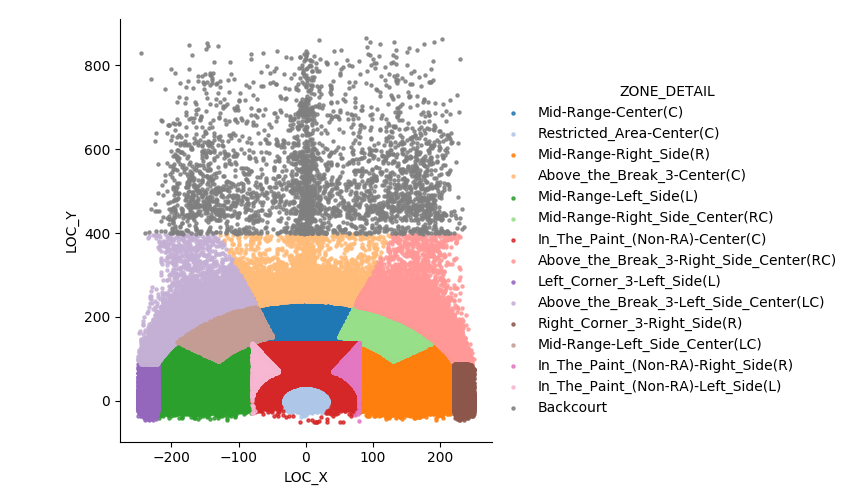
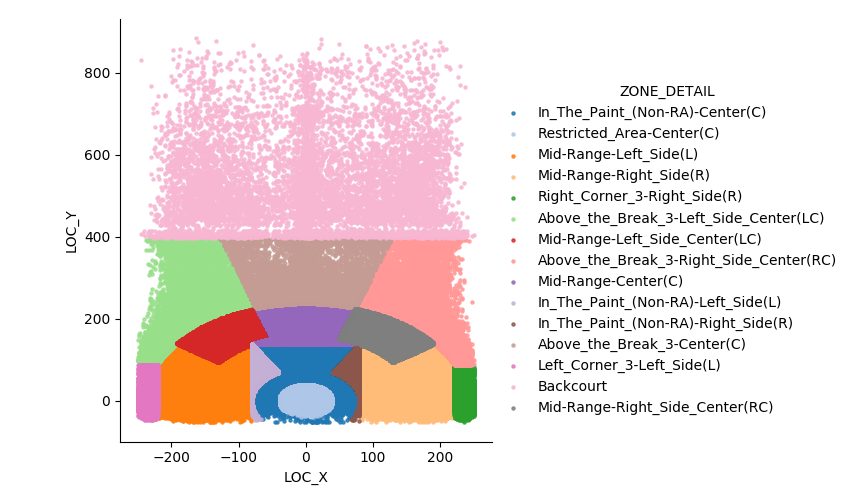
Altered code to accomodate additional data going back to 2000 - 01 season

diff --git a/t_SNBAE/GrabTeamData.py b/t_SNBAE/GrabTeamData.py
@@ -6,18 +6,23 @@
 # import the packages we will need #
 # Data Handling
 import pandas as pd
+import Path
 
 # nba scraper
 from nba_api.stats.static import teams
 from nba_api.stats.endpoints import shotchartdetail
 import time
 
+# Get the path
+path = Path.get_path()
+
 # Get the NBA teams
 Teams = teams.get_teams()
 TeamIDs = [team['id'] for team in Teams]
+print([team['full_name'] for team in Teams])
 
-# We'll pull data on the last five seasons
-Seasons = [str(year) + "-" + str(year + 1)[2:4] for year in range(2013,2019,1)]
+# We'll pull data on since 2000
+Seasons = [str(year) + "-" + str(year + 1)[2:4] for year in range(2000,2019,1)]
 
 # Data we'll want
 Columns = ['TEAM_ID','TEAM_NAME','GAME_ID','GAME_DATE','PLAYER_ID','PLAYER_NAME',
@@ -40,25 +45,30 @@ for Season in Seasons:
                             player_id = 0,
                             season_nullable = Season,
                             context_measure_simple = 'FGA')
-            NBAShots_DF = [df for df in NBAShots.get_data_frames() if df['GRID_TYPE'][0] == 'Shot Chart Detail'][0][Columns].copy()
-            NBAShots_DF['Season'] = Season
-            del NBAShots
+            if len(NBAShots.get_data_frames()[0]) != 0:
+                NBAShots_DF = [df for df in NBAShots.get_data_frames() if df['GRID_TYPE'][0] == 'Shot Chart Detail'][0][Columns].copy()
+                NBAShots_DF['Season'] = Season
+                del NBAShots
+            else:
+                First = True
         else:
             Temp = shotchartdetail.ShotChartDetail(team_id = ID,
                             player_id = 0,
                             season_nullable = Season,
                             context_measure_simple = 'FGA')
-            Temp_DF = [df for df in Temp.get_data_frames() if df['GRID_TYPE'][0] == 'Shot Chart Detail'][0][Columns].copy()
-            Temp_DF['Season'] = Season
-            NBAShots_DF = pd.concat([NBAShots_DF,Temp_DF])
-            del Temp_DF
-            del Temp
+            if len(Temp.get_data_frames()[0]) != 0:
+                Temp_DF = [df for df in Temp.get_data_frames() if df['GRID_TYPE'][0] == 'Shot Chart Detail'][0][Columns].copy()
+                Temp_DF['Season'] = Season
+                NBAShots_DF = pd.concat([NBAShots_DF,Temp_DF])
+                del Temp_DF
+                del Temp
 
         # To help us keep track of progress, the rest is to make sure we
         # aren't scraping too quickly
         print("Resting 5 seconds.")
-        time.sleep(5)
+        #time.sleep(5)
     print("Finished for " + str(Season) + " season.")
 
 # Write the data to file
-NBAShots_DF.to_csv(path + "NBAShots_2013_2019.csv", index = False)
+# Note this is a largish csv file
+NBAShots_DF.to_csv(path + "NBAShots_2000_2019.csv", index = False)

diff --git a/t_SNBAE/OrganizePlayerData.py b/t_SNBAE/OrganizePlayerData.py
@@ -7,34 +7,17 @@ path = Path.get_path()
 shots = pd.read_csv(path + "NBAShots_2013_2019.csv")
 
 # Add a ZONE_DETAIL variable
-shots['ZONE_DETAIL'] = shots[['SHOT_ZONE_BASIC','SHOT_ZONE_AREA']].apply(lambda x: ','.join(x), axis = 1)
+shots['ZONE_DETAIL'] = shots[['SHOT_ZONE_BASIC','SHOT_ZONE_AREA']].apply(lambda x: '-'.join(x).replace(" ", "_"), axis = 1)
 # Combine both Backcourt zones into one
-shots.loc[shots.ZONE_DETAIL == 'Backcourt,Back Court(BC)','ZONE_DETAIL'] = 'Backcourt'
-shots.loc[shots.ZONE_DETAIL == 'Above the Break 3,Back Court(BC)','ZONE_DETAIL'] = 'Backcourt'
+shots.loc[shots.ZONE_DETAIL == 'Backcourt-Back_Court(BC)','ZONE_DETAIL'] = 'Backcourt'
+shots.loc[shots.ZONE_DETAIL == 'Above_the_Break_3-Back_Court(BC)','ZONE_DETAIL'] = 'Backcourt'
 shots = shots[['PLAYER_NAME','Season','ZONE_DETAIL','SHOT_MADE_FLAG']]
 
 # Make Dummies
 dummies = pd.get_dummies(shots['ZONE_DETAIL'])
 
-# # Helps us know which zone is coded as ZONE_i, i = 0,...,15
-zone_key = {}
 
-# Helps with aesthetic so that zones are arranged in numerical order
-def sort_key(x):
-    if len(x) == 6:
-        return int(x[5])
-    else:
-        return int(x[5:])
-
-# Renaming the dummies with the numerical qualifiers we've created
-i = 0
-for col in dummies.columns:
-    zone_key[col] = 'ZONE_' + str(i)
-    i = i + 1
-
-dummies = dummies.rename(columns = zone_key)
 columns = list(dummies.columns)
-columns.sort(key = sort_key)
 
 # Add the dummies to shots df
 for col in columns:
@@ -80,12 +63,12 @@ for season in seasons:
         player_shots_by_zone[col + '_MADE'] = season_shots.loc[season_shots[col] == 1,].groupby(['PLAYER_NAME']).sum()['SHOT_MADE_FLAG']
 
         # Percent of shots taken that where in that zone
-        player_shots_by_zone[col + '_PERC_OF_TOTAL_SHOTS'] = player_shots_by_zone[col + '_ATT']/player_shots_by_zone['TOTAL_SHOTS']
+        player_shots_by_zone[col + '_PERC_TOT'] = player_shots_by_zone[col + '_ATT']/player_shots_by_zone['TOTAL_SHOTS']
         # Percent of shots made in that zones
         player_shots_by_zone[col + '_PERC_MADE'] = player_shots_by_zone[col + '_MADE']/player_shots_by_zone[col + '_ATT']
 
         # What columns do we want
-        columns_wanted.extend([col + '_PERC_OF_TOTAL_SHOTS', col + '_PERC_MADE'])
+        columns_wanted.extend([col + '_PERC_TOT', col + '_PERC_MADE'])
 
     player_shots_by_zone = player_shots_by_zone[columns_wanted]
     player_shots_by_zone.to_csv(path + "player_shots_by_zone_" + season + ".csv")

diff --git a/t_SNBAE/OrganizeTeamData.py b/t_SNBAE/OrganizeTeamData.py
@@ -3,10 +3,11 @@ import matplotlib.pyplot as plt
 import seaborn as sns
 import Path
 
+# Get the path where I'm storing data
 path = Path.get_path()
 
 # Load in the data we pulled with GrabTeamData.py
-TeamShots = pd.read_csv(path + "NBAShots_2013_2019.csv")
+TeamShots = pd.read_csv(path + "NBAShots_2000_2019.csv")
 
 # Add a new variable that combines the two shot zone variables into one
 TeamShots['ZONE_DETAIL'] = TeamShots[['SHOT_ZONE_BASIC','SHOT_ZONE_AREA']].apply(lambda x: '-'.join(x).replace(" ", "_"), axis = 1)
@@ -31,7 +32,7 @@ plt.savefig("ZONE_DETAIL_Court_Location.png")
 plt.close()
 
 # Isolate just the team, season, ZONE_DETAIL, and make/miss
-Shot_by_Zone = TeamShots[['TEAM_NAME','Season','ZONE_DETAIL','SHOT_MADE_FLAG']].copy()
+Shot_by_Zone = TeamShots[['TEAM_NAME','TEAM_ID','Season','ZONE_DETAIL','SHOT_MADE_FLAG']].copy()
 
 # Create Dummy Variables
 Dummies = pd.get_dummies(Shot_by_Zone['ZONE_DETAIL'])
@@ -47,17 +48,18 @@ for col in Columns:
 
 del Dummies
 
+# Initialize a list we'll use later
 Columns_Wanted = []
 
 # How many total shots were taken by each team in each season
-SHOTS_BY_ZONE = Shot_by_Zone.groupby(['TEAM_NAME','Season']).size().to_frame('TOTAL_SHOTS')
+SHOTS_BY_ZONE = Shot_by_Zone.groupby(['TEAM_ID','TEAM_NAME','Season']).size().to_frame('TOTAL_SHOTS')
 
 # For each of the zones
 for col in Columns:
     # How many shots were attempted in that zone for each team in each season
-    SHOTS_BY_ZONE[col + '_ATT'] = Shot_by_Zone.groupby(['TEAM_NAME','Season']).sum()[col]
+    SHOTS_BY_ZONE[col + '_ATT'] = Shot_by_Zone.groupby(['TEAM_ID','TEAM_NAME','Season']).sum()[col]
     # How many shots were made in that zone for each team in each season
-    SHOTS_BY_ZONE[col + '_MADE'] = Shot_by_Zone.loc[Shot_by_Zone[col] == 1,].groupby(['TEAM_NAME','Season']).sum()['SHOT_MADE_FLAG']
+    SHOTS_BY_ZONE[col + '_MADE'] = Shot_by_Zone.loc[Shot_by_Zone[col] == 1,].groupby(['TEAM_ID','TEAM_NAME','Season']).sum()['SHOT_MADE_FLAG']
 
     # Now calculate what percentage of a teams shots were in that zone
     SHOTS_BY_ZONE[col + '_PERC_TOT'] = SHOTS_BY_ZONE[col + '_ATT']/SHOTS_BY_ZONE['TOTAL_SHOTS']
@@ -91,5 +93,5 @@ SHOTS_BY_ZONE['MID_PERC_OF_TOT'] = SHOTS_BY_ZONE[col_mid].sum(axis = 1)
 SHOTS_BY_ZONE['CLOSE_PERC_OF_TOT'] = SHOTS_BY_ZONE[col_close].sum(axis = 1)
 
 
-
+# Save csv to file
 SHOTS_BY_ZONE.to_csv(path + "Team_Shots_by_Zone.csv")

diff --git a/t_SNBAE/PlayerPCA.py b/t_SNBAE/PlayerPCA.py
@@ -7,20 +7,22 @@ import Path
 
 path = Path.get_path()
 
+file = "player_shots_by_zone_2018-19.csv"
+
 # Read in the aggregated shot data
-team_by_zone = pd.read_csv(path + "Team_Shots_by_Zone.csv")
+player_by_zone = pd.read_csv(path + file)
 
 # Only grab the perc of total data
-variables = [c for c in team_by_zone.columns if '_PERC_TOT' in c]
-X = team_by_zone[variables].copy()
+variables = [c for c in player_by_zone.columns if '_PERC_TOT' in c]
+X = player_by_zone[variables].copy()
 
 # Run pca and fit it
 pca = PCA(n_components = len(variables))
 pca.fit(X)
 
 # Uncomment this to see the explained_variance_ratio_
-#plt.plot(np.cumsum(pca.explained_variance_ratio_))
-#plt.show()
+plt.plot(np.cumsum(pca.explained_variance_ratio_))
+plt.show()
 
 # Make a dataframe for the components.
 components = pd.DataFrame({'feature': variables})
@@ -30,14 +32,15 @@ for i in range(len(variables)):
     components['component_' + str(i+1)] = pca.components_[i,:]
 
 # Save components data fram to csv
-components.to_csv(path + "team_pca_components.csv", index = False)
+components.to_csv(path + file[:-4] + "_comps.csv", index = False)
 
 # Project the points to the hyperplane
 fit = pca.transform(X)
 
 # Record the first two coordinates for plotting
-team_by_zone['pca_1'] = fit[:,0]
-team_by_zone['pca_2'] = fit[:,1]
+player_by_zone['pca_1'] = fit[:,0]
+player_by_zone['pca_2'] = fit[:,1]
+player_by_zone['pca_3'] = fit[:,2]
 
 # Update Team_Shots_by_Zone.csv to include pca components
-team_by_zone.to_csv(path + "Team_Shots_by_Zone.csv", index = False)
+player_by_zone.to_csv(path + file, index = False)

diff --git a/t_SNBAE/TeamPCA.py b/t_SNBAE/TeamPCA.py
@@ -1,0 +1,44 @@
+# import packages
+import pandas as pd
+from sklearn.decomposition import PCA
+import matplotlib.pyplot as plt
+import numpy as np
+import Path
+
+# Get the path
+path = Path.get_path()
+
+# Read in the aggregated shot data
+team_by_zone = pd.read_csv(path + "Team_Shots_by_Zone.csv")
+
+# Only grab the perc of total data
+variables = [c for c in team_by_zone.columns if '_PERC_TOT' in c]
+X = team_by_zone[variables].copy()
+
+# Run pca and fit it
+pca = PCA(n_components = len(variables))
+pca.fit(X)
+
+# Uncomment this to see the explained_variance_ratio_
+#plt.plot(np.cumsum(pca.explained_variance_ratio_))
+#plt.show()
+
+# Make a dataframe for the components.
+components = pd.DataFrame({'feature': variables})
+
+
+for i in range(len(variables)):
+    components['component_' + str(i+1)] = pca.components_[i,:]
+
+# Save components data fram to csv
+components.to_csv(path + "team_pca_components.csv", index = False)
+
+# Project the points to the hyperplane
+fit = pca.transform(X)
+
+# Record the first two coordinates for plotting
+team_by_zone['pca_1'] = fit[:,0]
+team_by_zone['pca_2'] = fit[:,1]
+
+# Update Team_Shots_by_Zone.csv to include pca components
+team_by_zone.to_csv(path + "Team_Shots_by_Zone.csv", index = False)
